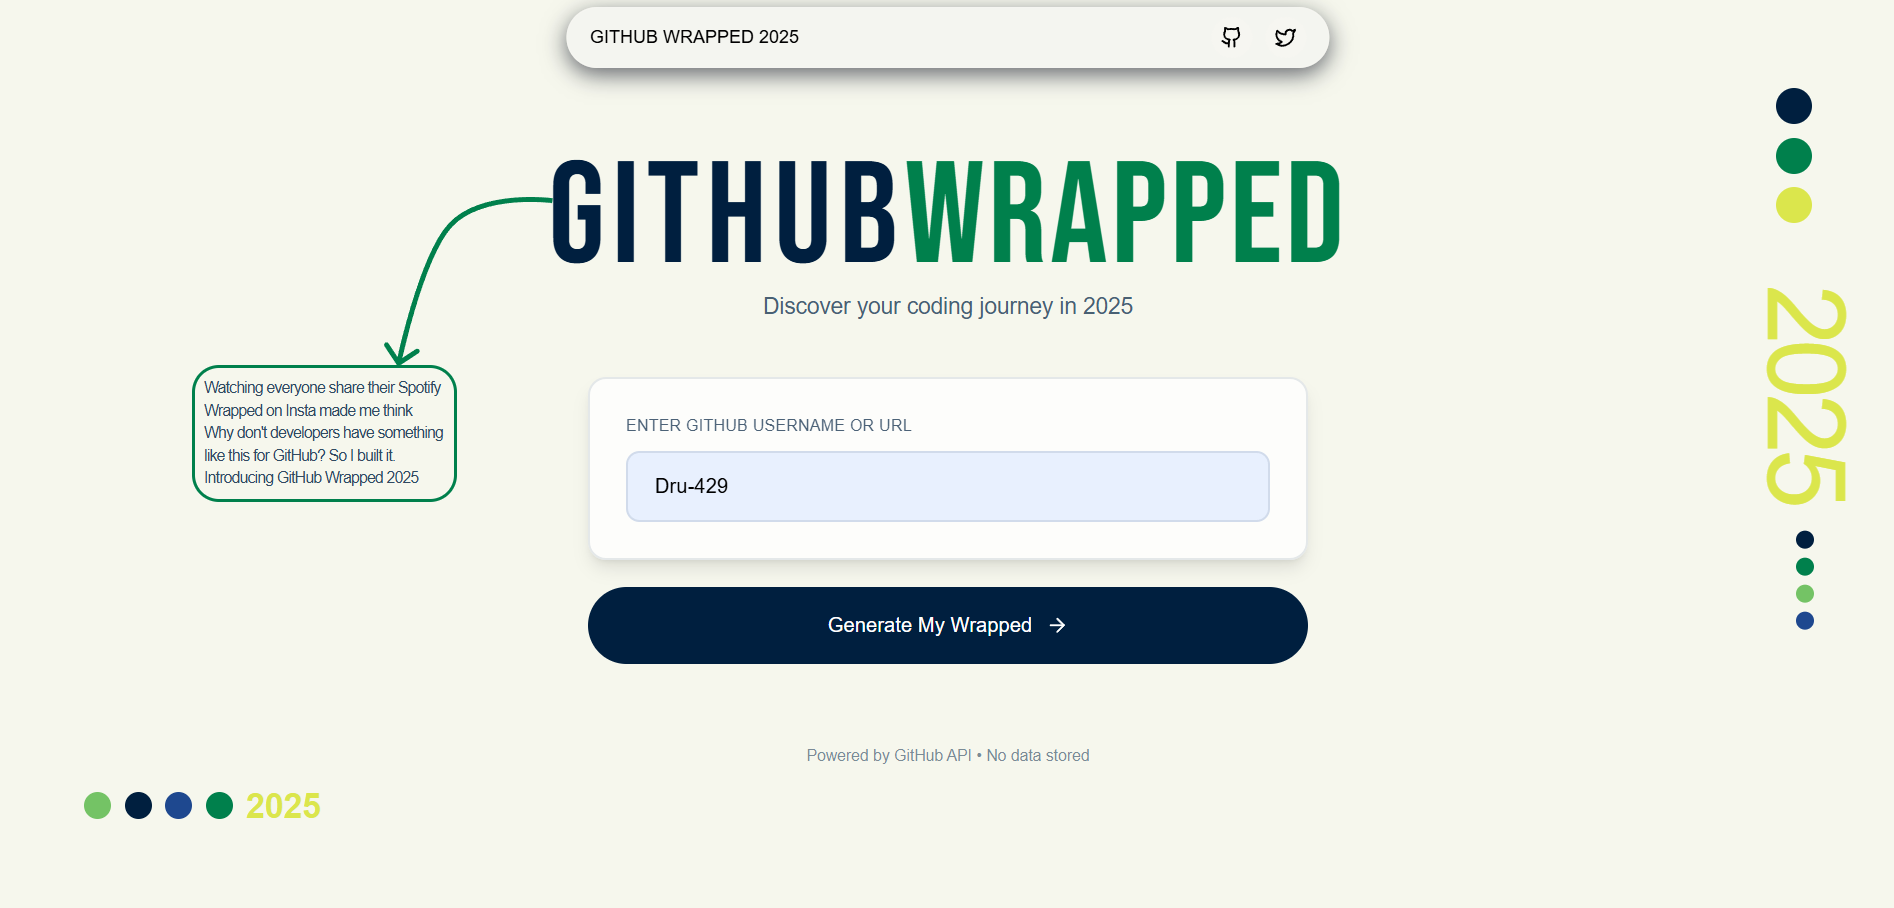
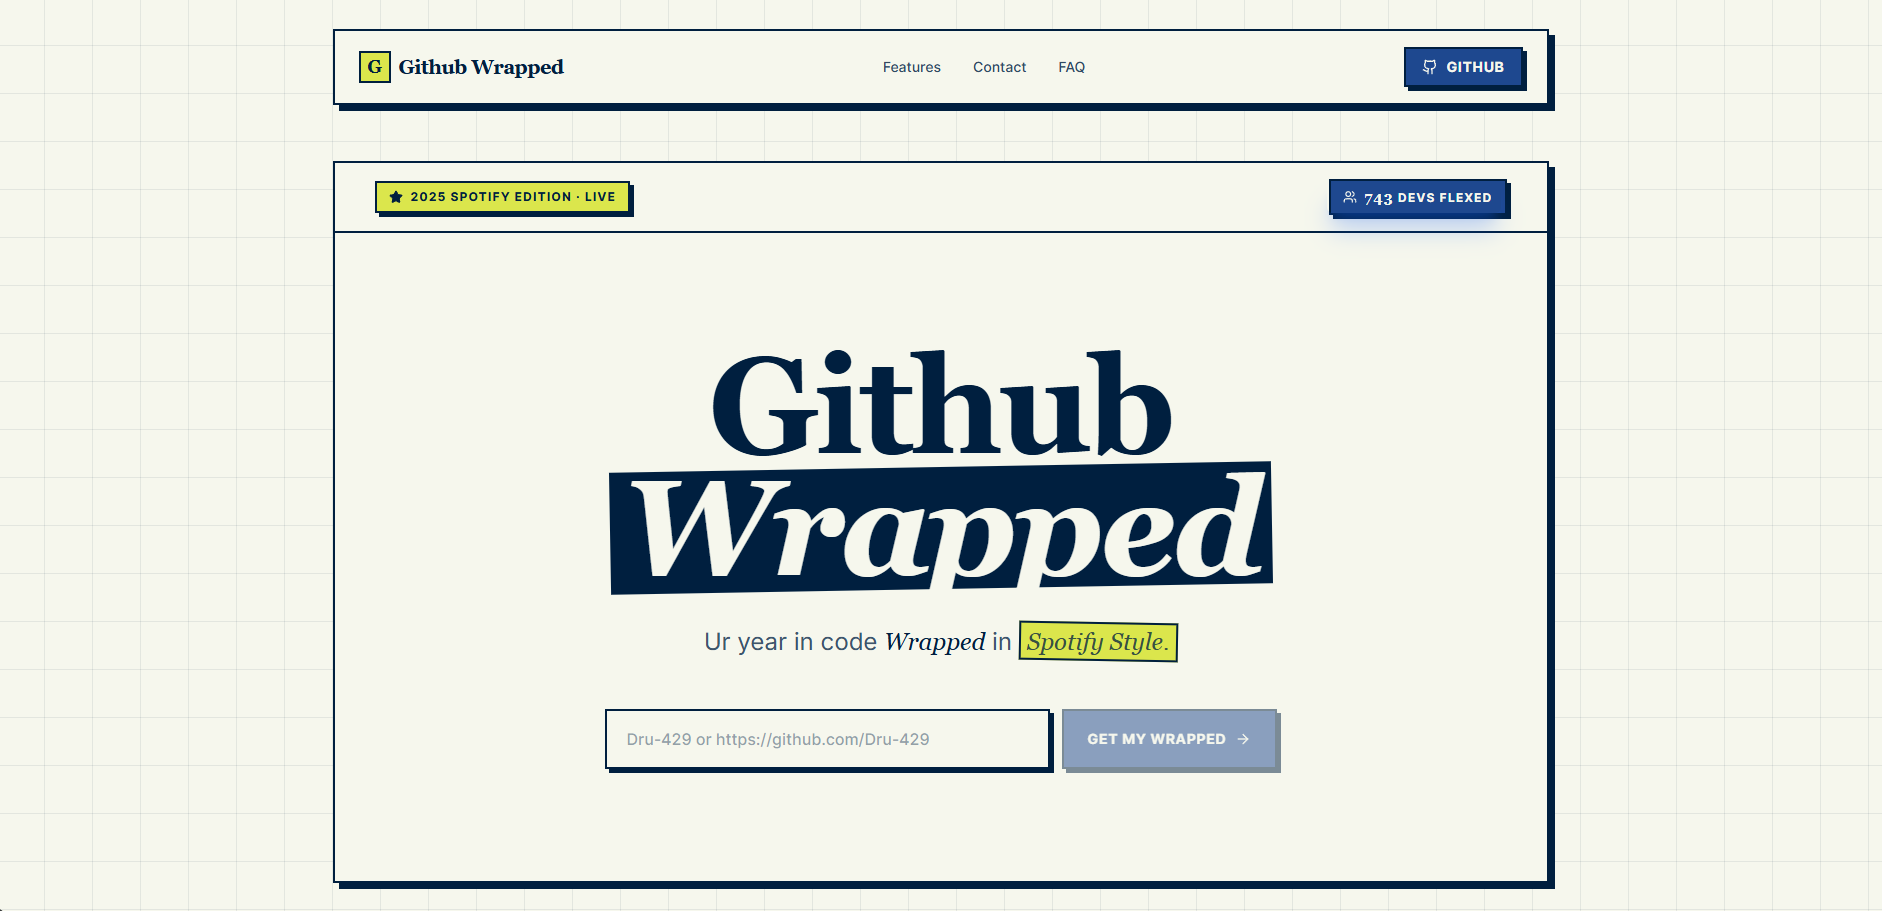
Add preview link animation

diff --git a/app/components/ui/PreviewImage.jsx b/app/components/ui/PreviewImage.jsx
@@ -1,0 +1,93 @@
+import { useRef, useState } from "react";
+import { motion, useMotionValue, useSpring, AnimatePresence } from "framer-motion";
+import Image from "next/image";
+import Link from "next/link";
+
+const PreviewImage = ({ img, title, liveLink }) => {
+  const cardRef = useRef(null);
+  const [isHovered, setIsHovered] = useState(false);
+
+  // Initialize motion values for tracking cursor position inside the card
+  const mouseX = useMotionValue(0);
+  const mouseY = useMotionValue(0);
+
+  // Dynamic physics config for the smooth catch-up effect
+  const springConfig = { damping: 25, stiffness: 250, mass: 0.5 };
+  const cursorX = useSpring(mouseX, springConfig);
+  const cursorY = useSpring(mouseY, springConfig);
+
+  const handleMouseMove = (e) => {
+    if (!cardRef.current) return;
+
+    // Calculate mouse position relative to the bounding card box
+    const rect = cardRef.current.getBoundingClientRect();
+    
+    // Offset by 60px (half of the 120px circle) to center it perfectly on the cursor
+    const x = e.clientX - rect.left - 60;
+    const y = e.clientY - rect.top - 60;
+
+    mouseX.set(x);
+    mouseY.set(y);
+  };
+
+  return (
+    <div 
+      ref={cardRef}
+      onMouseEnter={() => setIsHovered(true)}
+      onMouseMove={handleMouseMove}
+      onMouseLeave={() => setIsHovered(false)}
+      className="relative overflow-hidden rounded-2xl backdrop-blur-sm bg-secondary/5 border border-secondary/10 p-2 cursor-none"
+    >
+      {/* Image Container */}
+      <motion.div 
+        animate={{ scale: isHovered ? 1.02 : 1 }} 
+        transition={{ duration: 0.2 }}
+      >
+        <Image
+          src={img || "/placeholder.svg"}
+          alt={title}
+          width={520}
+          height={420}
+          className="rounded-xl object-cover shadow-lg"
+        />
+      </motion.div>
+
+      {/* AnimatePresence handles the clean mounting/unmounting animation */}
+      <AnimatePresence>
+        {isHovered && (
+          <motion.div
+            initial={{ opacity: 0 }}
+            animate={{ opacity: 1 }}
+            exit={{ opacity: 0 }}
+            transition={{ duration: 0.2 }}
+            className="absolute inset-0 bg-black/20 pointer-events-none rounded-2xl"
+          >
+            {/* Animated Custom Hover Button */}
+            <motion.div
+              style={{
+                x: cursorX,
+                y: cursorY,
+              }}
+              initial={{ scale: 0, opacity: 0 }}
+              animate={{ scale: 1, opacity: 1 }}
+              exit={{ scale: 0, opacity: 0 }}
+              transition={{ type: "spring", stiffness: 300, damping: 25 }}
+              className="absolute top-0 left-0 w-[120px] h-[120px] rounded-full bg-black/70 backdrop-blur-md border border-white/20 flex items-center justify-center text-white text-sm font-medium shadow-2xl pointer-events-auto"
+            >
+              <Link 
+                href={liveLink || "#"} 
+                className="w-full h-full flex items-center justify-center rounded-full"
+                target="_blank"
+                rel="noopener noreferrer"
+              >
+                View site
+              </Link>
+            </motion.div>
+          </motion.div>
+        )}
+      </AnimatePresence>
+    </div>
+  );
+};
+
+export default PreviewImage;

diff --git a/app/components/projects/FolioCard.jsx b/app/components/projects/FolioCard.jsx
@@ -7,6 +7,7 @@ import { easeIn, motion, useInView } from "framer-motion";
 import { FaGithub, FaExternalLinkAlt } from "react-icons/fa";
 import TechCapsule from "../ui/TechCapsule";
 import AnimateTitle3 from "../ui/AnimateTitle3";
+import PreviewImage from "../ui/PreviewImage";
 
 export default function FolioCard({
   index,
@@ -32,10 +33,10 @@ export default function FolioCard({
             // animate={isInView ? "visible" : "hidden"}
             className="group relative overflow-hidden backdrop-blur-xl  bg-secondary/10 hover:bg-secondary/15 border border-secondary/20 hover:border-secondary/30 rounded-3xl lg:rounded-b-none shadow-xl hover:shadow-2xl flex flex-col-reverse justify-between items-center gap-10 lg:flex-row p-8 transition-all duration-300"
             whileHover={{
-              scale: 1.02,
-              y: 10,
+              scale: 1.01,
+              y: 2,
             }}
-            transition={{ duration: 0.3 }}
+            transition={{ duration: 0.1 }}
           >
             {/* Content Section */}
             <motion.div className="flex-1 relative z-10 lg:w-[60%] xl:w-[75%] ">
@@ -62,7 +63,7 @@ export default function FolioCard({
                     >
                       <motion.div
                         className="group/icon relative cursor-pointer"
-                        whileHover={{ scale: 1.1, rotate: 5 }}
+                        whileHover={{ scale: 1.1}}
                         whileTap={{ scale: 0.9 }}
                         initial={{ opacity: 0, scale: 0 }}
                         animate={
@@ -70,7 +71,7 @@ export default function FolioCard({
                             ? { opacity: 1, scale: 1 }
                             : { opacity: 0, scale: 0 }
                         }
-                        transition={{ delay: index * 0.2 + 0.8 }}
+                        transition={{ delay: 0.2 }}
                       >
                         <div className="p-3 rounded-full backdrop-blur-md bg-secondary/10 hover:bg-secondary border border-secondary/20 hover:border-secondary/30 transition-all duration-200">
                           <FaGithub className="text-xl text-foreground/80 group-hover/icon:text-accent hover:text-primary transition-colors duration-200" />
@@ -97,7 +98,7 @@ export default function FolioCard({
                     >
                       <motion.div
                         className="group/icon relative cursor-pointer"
-                        whileHover={{ scale: 1.1, rotate: 5 }}
+                        whileHover={{ scale: 1.1, }}
                         whileTap={{ scale: 0.9 }}
                         initial={{ opacity: 0, scale: 0 }}
                         animate={
@@ -105,13 +106,13 @@ export default function FolioCard({
                             ? { opacity: 1, scale: 1 }
                             : { opacity: 0, scale: 0 }
                         }
-                        transition={{ delay: index * 0.2 + 0.8 }}
+                        transition={{ delay: 0.2 }}
                       >
                         <div className="p-3 rounded-full backdrop-blur-md bg-secondary/10 hover:bg-secondary border border-secondary/20 hover:border-secondary/30 transition-all duration-200">
                           <FaExternalLinkAlt className="text-xl text-foreground/80 group-hover/icon:text-accent hover:text-primary transition-colors duration-200" />
                         </div>
                         <motion.div
-                          className="absolute inset-0 rounded-full bg-gradient-to-r from-primary/20 to-secondary/20 opacity-0 group-hover/icon:opacity-100 transition-opacity duration-200"
+                          className="absolute inset-0 rounded-full bg-gradient-to-r from-primary/20 to-secondary/10 opacity-0 group-hover/icon:opacity-100 transition-opacity duration-200"
                           animate={{ rotate: 360 }}
                           transition={{
                             duration: 8,
@@ -132,7 +133,7 @@ export default function FolioCard({
                 animate={
                   isInView ? { opacity: 1, y: 0 } : { opacity: 0, y: 20 }
                 }
-                transition={{ delay: index * 0.2 + 1.0 }}
+                transition={{ delay: index * 0.2 + 0.2 }}
               >
                 {about}
               </motion.p>
@@ -142,14 +143,13 @@ export default function FolioCard({
                 className="flex flex-wrap gap-3"
                 initial={{ opacity: 0 }}
                 animate={isInView ? { opacity: 1 } : { opacity: 0 }}
-                transition={{ delay: index * 0.2 + 1.2 }}
+                transition={{ delay: index * 0.2 + 0.3 }}
               >
                 {stack.map((tech, techIndex) => (
                   <TechCapsule
                     key={techIndex}
                     index={techIndex}
                     item={tech}
-                    delay={index * 0.2 + 1.3 + techIndex * 0.1}
                   />
                 ))}
               </motion.div>
@@ -157,28 +157,11 @@ export default function FolioCard({
 
             {/* Image Section */}
             <div className="relative flex-shrink-0 lg:w-[40%] z-40">
-              <div className="relative overflow-hidden rounded-2xl backdrop-blur-sm bg-secondary/5 border border-secondary/10 p-2">
-                <motion.div
-                  whileHover={{ scale: 1.05 }}
-                  transition={{ duration: 0.3 }}
-                >
-                  <Image
-                    src={img || "/placeholder.svg"}
-                    alt={title}
-                    width={520}
-                    height={420}
-                    className="rounded-xl object-cover shadow-lg"
-                  />
-                </motion.div>
-
-                {/* Image Overlay Effect */}
-                <motion.div
-                  className="absolute inset-0 bg-gradient-to-t from-primary/15 via-transparent to-secondary/10 opacity-0 group-hover:opacity-100 transition-opacity duration-300 rounded-2xl"
-                  initial={{ scale: 1.1 }}
-                  whileHover={{ scale: 1 }}
-                  transition={{ duration: 0.5 }}
-                />
-              </div>
+              <PreviewImage 
+                title={title}
+                img={img}
+                liveLink={liveLink}
+              />
             </div>
           </motion.div>
         }

diff --git a/app/components/ui/AnimateTitle3.jsx b/app/components/ui/AnimateTitle3.jsx
@@ -60,21 +60,21 @@ const AnimateTitle3 = ({ sno, title, child }) => {
                   <motion.div
                     initial={{ top: 0, opacity: 1 }}
                     animate={controlTop}
-                    transition={{ duration: 0.5, ease: easeIn }}
+                    transition={{ duration: 0.4, ease: easeIn }}
                   >
                     {item}
                   </motion.div>
                   <motion.div
                     initial={{ top: 0, opacity: 1 }}
                     animate={controlTop}
-                    transition={{ duration: 0.5, ease: easeIn }}
+                    transition={{ duration: 0.4, ease: easeIn }}
                   >
                     {item}
                   </motion.div>
                   <motion.div
                     initial={{ top: 0, opacity: 1 }}
                     animate={controlTop}
-                    transition={{ duration: 0.5, ease: easeIn }}
+                    transition={{ duration: 0.4, ease: easeIn }}
                   >
                     {item}
                   </motion.div>
@@ -90,21 +90,21 @@ const AnimateTitle3 = ({ sno, title, child }) => {
                     className="absolute -top-[18px]"
                     initial={{ y: "-100%", opacity: 1 }}
                     animate={controlBottom}
-                    transition={{ duration: 0.5, ease: easeIn }}
+                    transition={{ duration: 0.4, ease: easeIn }}
                   >
                     {item}
                   </motion.div>
                   <motion.div
                     initial={{ y: "-100%", opacity: 1 }}
                     animate={controlBottom}
-                    transition={{ duration: 0.5, ease: easeIn }}
+                    transition={{ duration: 0.4, ease: easeIn }}
                   >
                     {item}
                   </motion.div>
                   <motion.div
                     initial={{ y: "-100%", opacity: 1 }}
                     animate={controlBottom}
-                    transition={{ duration: 0.5, ease: easeIn }}
+                    transition={{ duration: 0.4, ease: easeIn }}
                   >
                     {item}
                   </motion.div>
@@ -126,7 +126,7 @@ const AnimateTitle3 = ({ sno, title, child }) => {
                     className="relative "
                     initial={{ top: 0, opacity: 1 }}
                     animate={controlTop}
-                    transition={{ duration: 0.5, ease: easeIn }}
+                    transition={{ duration: 0.4, ease: easeIn }}
                   >
                     {item}
                   </motion.div>
@@ -134,7 +134,7 @@ const AnimateTitle3 = ({ sno, title, child }) => {
                     className="relative "
                     initial={{ top: 0, opacity: 1 }}
                     animate={controlTop}
-                    transition={{ duration: 0.5, ease: easeIn }}
+                    transition={{ duration: 0.4, ease: easeIn }}
                   >
                     {item}
                   </motion.div>
@@ -142,7 +142,7 @@ const AnimateTitle3 = ({ sno, title, child }) => {
                     className="relative "
                     initial={{ top: 0, opacity: 1 }}
                     animate={controlTop}
-                    transition={{ duration: 0.5, ease: easeIn }}
+                    transition={{ duration: 0.4, ease: easeIn }}
                   >
                     {item}
                   </motion.div>
@@ -158,7 +158,7 @@ const AnimateTitle3 = ({ sno, title, child }) => {
                     className="absolute -top-[33px]"
                     initial={{ opacity: 1 }}
                     animate={controlBottom}
-                    transition={{ duration: 0.5, ease: easeIn }}
+                    transition={{ duration: 0.4, ease: easeIn }}
                   >
                     {item}
                   </motion.div>
@@ -166,7 +166,7 @@ const AnimateTitle3 = ({ sno, title, child }) => {
                     className="relative "
                     initial={{ y: "-100%", opacity: 1 }}
                     animate={controlBottom}
-                    transition={{ duration: 0.5, ease: easeIn }}
+                    transition={{ duration: 0.4, ease: easeIn }}
                   >
                     {item}
                   </motion.div>
@@ -174,7 +174,7 @@ const AnimateTitle3 = ({ sno, title, child }) => {
                     className="relative "
                     initial={{ y: "-100%", opacity: 1 }}
                     animate={controlBottom}
-                    transition={{ duration: 0.5, ease: easeIn }}
+                    transition={{ duration: 0.4, ease: easeIn }}
                   >
                     {item}
                   </motion.div>
@@ -192,16 +192,16 @@ const AnimateTitle3 = ({ sno, title, child }) => {
           className="w-5 h-[2px] bg-zinc-800 rounded-xl absolute rotate-90 flex"
           // initial={{ left: "50%", translateX: "-50%", scale: 1 }}
           animate={controlClicked}
-          transition={{ duration: 0.5 }}
+          transition={{ duration: 0.4 }}
         ></motion.div>
       </div> */}
 
       <div>
         <motion.div
-          className="w-full absolute h-[4px] bg-secondary -bottom-4 left-0 scale-[1.02]"
+          className="w-full absolute h-[4px] bg-secondary -bottom-2 left-0 scale-[1.01]"
           initial={{ width: "0%" }}
           animate={controlLine}
-          transition={{ duration: 0.5, ease: easeOut }}
+          transition={{ duration: 0.3, ease: easeOut }}
         ></motion.div>
         {child}
       </div>

diff --git a/app/components/ui/TechCapsule.jsx b/app/components/ui/TechCapsule.jsx
@@ -29,10 +29,9 @@ const TechCapsule = ({ item, index, delay = 0 }) => {
       variants={capsuleVariants}
       initial="hidden"
       animate="visible"
-      className="group relative overflow-hidden backdrop-blur-md bg-secondary/10 hover:bg-secondary/20 border border-secondary/20 hover:border-secondary/30 rounded-full px-4 py-2 transition-all duration-300 cursor-pointer"
+      className="group relative overflow-hidden backdrop-blur-sm bg-secondary/10 hover:bg-secondary/20 border border-secondary/20 hover:border-secondary/30 rounded-full px-4 py-2 transition-all duration-300"
       whileHover={{
-        scale: 1.05,
-        boxShadow: "0 8px 25px rgba(0,0,0,0.1)",
+        scale: 1.01,
       }}
       whileTap={{ scale: 0.95 }}
     >

diff --git a/app/components/projects/ProjectData.jsx b/app/components/projects/ProjectData.jsx
@@ -72,7 +72,7 @@ const projectData = [
       ["Github API", <SiGithubcopilot />],
       ["Framer Motion", <SiFramer />],
     ],
-    img: "/github_wrapped.png", // Replace with your actual Sticky Board image path
+    img: "/github_Wrapped.png", // Replace with your actual Sticky Board image path
   },
   {
     title: "Sticky Board",